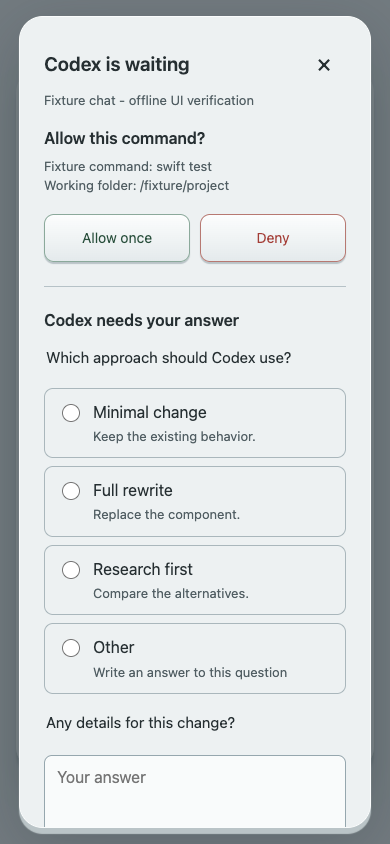
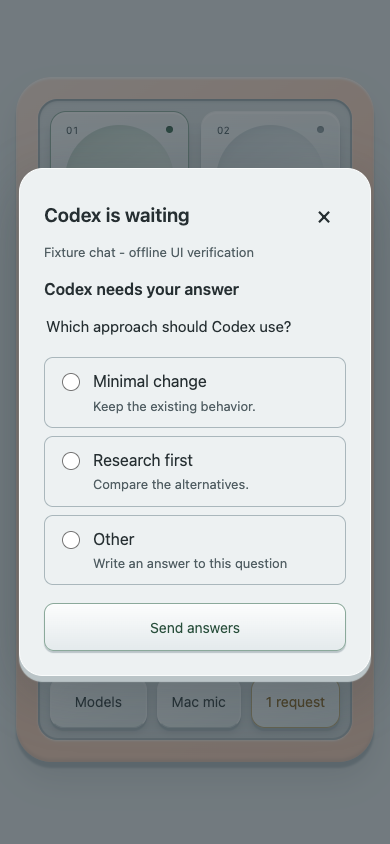
Add a wider Micro-style frame with live chat status colors

diff --git a/Sources/CodexUsageAutomation/Resources/apply-preset.js b/Sources/CodexUsageAutomation/Resources/apply-preset.js
@@ -156,16 +156,18 @@ function codexDeckRuntime() {
     return active;
   };
   const walk = (start, visit) => {
-    const stack = [start], seen = new Set();
+    const stack = [{ node: start, conversationID: null }], seen = new Set();
     while (stack.length) {
-      const node = stack.pop();
+      const entry = stack.pop(), node = entry.node;
       if (!node || seen.has(node)) continue;
       if (seen.size >= 100000) throw new Error('The Codex control search reached its limit.');
       seen.add(node);
-      visit(node);
+      const conversationID = Object.hasOwn(node.memoizedProps ?? {}, 'conversationId')
+        ? node.memoizedProps.conversationId : entry.conversationID;
+      visit(node, conversationID);
       // A subtree walk must not visit its root's siblings.
       for (let child = node.child; child; child = child.sibling) {
-        stack.push(child);
+        stack.push({ node: child, conversationID });
         if (stack.length > 100000) throw new Error('The Codex control search reached its limit.');
       }
     }
@@ -211,9 +213,17 @@ function codexDeckRuntime() {
     return { state: { available, recording, owned }, voice, nativeControl };
   };
   const pending = () => {
-    const owners = [];
-    walk(runtime.currentRoot(), node => {
+    const owners = [], statuses = new Set();
+    walk(runtime.currentRoot(), (node, conversationID) => {
       const props = node.memoizedProps;
+      // Codex's task row passes statusState to its indicator. Read only the
+      // committed, identity-scoped status props, never messages or hook state.
+      const status = props?.statusState;
+      if (conversationID === targetID && typeof status?.unread === 'boolean') {
+        if (status.type === 'error') statuses.add('error');
+        else if (status.type === 'loading') statuses.add('thinking');
+        else if (status.type === 'idle') statuses.add(status.unread ? 'complete' : 'idle');
+      }
       if (props?.conversationId !== targetID || !props.pendingRequest?.type) return;
       let mounted = false;
       walk(node, child => { if (visible(child)) mounted = true; });
@@ -323,7 +333,12 @@ function codexDeckRuntime() {
       }
       entries.set(id, entry);
     }
-    return { entries, ids, unavailable };
+    // A mounted question/approval takes precedence over the underlying turn
+    // still running. Unsupported requests also require attention on the Mac.
+    const responding = composer.owners.some(owner => owner.memoizedProps?.isResponseInProgress === true);
+    const activity = owners.length ? 'requires-input' : statuses.size === 1 ? [...statuses][0]
+      : statuses.size === 0 && responding ? 'thinking' : 'unknown';
+    return { entries, ids, unavailable, activity };
   };
   return { composer, targetID, ensureActive, dictation, pending };
 }
@@ -345,7 +360,7 @@ function readCodexDeck() {
       efforts: option.model.supportedReasoningEfforts.map(level => level.reasoningEffort).filter(level => typeof level === 'string')
     }));
   const requests = pending();
-  return { targetID, title: title ?? 'Current Codex chat', model, effort, models,
+  return { targetID, title: title ?? 'Current Codex chat', model, effort, models, activity: requests.activity,
     dictation: dictation(composer).state, pending: [...requests.entries.values()].map(entry => entry.data),
     ...(requests.unavailable ? { pendingUnavailable: requests.unavailable } : {}) };
 }

diff --git a/Sources/CodexUsageWeb/Resources/deck.css b/Sources/CodexUsageWeb/Resources/deck.css
@@ -22,7 +22,11 @@ h1, h2, p { margin: 0; }
   padding: max(16px, env(safe-area-inset-top)) max(16px, env(safe-area-inset-right)) max(22px, env(safe-area-inset-bottom)) max(16px, env(safe-area-inset-left));
 }
 .deck-surface {
-  --board-pad: clamp(14px, 2.8vmin, 28px);
+  --frame-width: clamp(22px, 4vmin, 38px);
+  --inner-pad: clamp(12px, 2vmin, 20px);
+  --board-pad: calc(var(--frame-width) + var(--inner-pad));
+  --frame-color: #bac3c6;
+  --board-radius: clamp(36px, 6vmin, 56px);
   --key-gap: clamp(12px, 2.2vmin, 22px);
   --dock-gap: clamp(20px, 3vmin, 28px);
   --dock-height: 52px;
@@ -30,10 +34,22 @@ h1, h2, p { margin: 0; }
   --controls-width: 132px;
   width: min(100cqw, calc((100cqh - var(--board-pad) * 2 - var(--dock-height) - var(--effort-height) - var(--dock-gap) * 2 - var(--key-gap) * 2) * 2 / 3 + var(--key-gap) + var(--board-pad) * 2));
   display: grid; grid-template-areas: "keys" "effort" "controls"; grid-template-columns: minmax(0, 1fr); gap: var(--dock-gap); padding: var(--board-pad); container-type: inline-size;
-  border-radius: clamp(26px, 5vmin, 44px);
-  background: linear-gradient(145deg, #e0e5e6, #cbd2d4);
-  box-shadow: inset 0 0 0 2px #f7f9f9, inset 0 0 0 7px #e9edee, inset 0 0 0 9px #bac3c6, 0 8px 2px #bcc4c7, 0 18px 30px #49575e25;
+  position: relative; isolation: isolate;
+  border-radius: var(--board-radius);
+  background: linear-gradient(145deg, #ffffff70, #ffffff00 40%, #00000009), var(--frame-color);
+  box-shadow: inset 0 2px 2px #ffffffd9, inset 0 -3px 3px #52636b25, 0 6px 2px #aab5ba, 0 18px 30px #49575e25;
 }
+.deck-surface::before {
+  content: ""; position: absolute; inset: var(--frame-width); z-index: -1; pointer-events: none;
+  border-radius: calc(var(--board-radius) - var(--frame-width) + 6px);
+  background: linear-gradient(145deg, #e0e5e6, #cbd2d4);
+  box-shadow: 0 1px 2px #ffffffb3, inset 0 2px 4px #68798066, inset 0 0 0 2px #aeb9bd;
+}
+.deck-surface[data-activity="idle"] { --frame-color: #f7f9f9; }
+.deck-surface[data-activity="complete"] { --frame-color: #9bf095; }
+.deck-surface[data-activity="thinking"] { --frame-color: #9bd2f8; }
+.deck-surface[data-activity="requires-input"] { --frame-color: #ffd1b8; }
+.deck-surface[data-activity="error"] { --frame-color: #ff7075; }
 .remote[data-pairing="true"] .deck-surface { display: none; }
 .key-surface { grid-area: keys; min-width: 0; position: relative; }
 .key-surface[data-view="models"] .deck-grid { visibility: hidden; }
@@ -155,7 +171,7 @@ input, textarea { caret-color: var(--green); }
 }
 @media (max-height: 440px) and (orientation: landscape) {
   .remote { padding-top: 12px; padding-bottom: 18px; }
-  .deck-surface { --board-pad: 12px; --key-gap: 10px; --dock-gap: 14px; --effort-height: 66px; --controls-width: 96px; }
+  .deck-surface { --frame-width: 18px; --inner-pad: 10px; --key-gap: 10px; --dock-gap: 14px; --effort-height: 66px; --controls-width: 96px; }
   .micro-dock { gap: 8px; }
   .dock-button { padding: 6px 8px; gap: 5px; font-size: .8125rem; }
   #effort-range { height: 44px; }

diff --git a/Sources/CodexUsageWeb/Resources/deck.js b/Sources/CodexUsageWeb/Resources/deck.js
@@ -3,6 +3,14 @@
 
   const POLL_INTERVAL = 5000;
   const effortLabels = { none: "None", minimal: "Minimal", low: "Low", medium: "Medium", high: "High", xhigh: "Extra High", max: "Max", ultra: "Ultra" };
+  const activityLabels = { idle: "Idle", thinking: "Thinking", complete: "Complete — unread update", "requires-input": "Requires input", error: "Chat error", unknown: "Chat status unavailable", off: "No connected chat" };
+
+  function deckActivity(state) {
+    const snapshot = state.snapshot;
+    if (state.phase !== "ready" || !snapshot?.connected || !snapshot.target?.id) return "off";
+    if (snapshot.pending?.length || snapshot.pendingUnavailable) return "requires-input";
+    return ["idle", "thinking", "complete", "requires-input", "error"].includes(snapshot.activity) ? snapshot.activity : "unknown";
+  }
 
   function modelLabel(model) {
     return String(model || "Model").replace(/^gpt-/i, "GPT-").replace(/-(astra|sol|luna|terra)$/i, (_, name) => " " + name[0].toUpperCase() + name.slice(1));
@@ -521,6 +529,10 @@
       const selection = controller.displaySelection();
       const pending = !!state.pendingSelection;
       document.querySelector(".deck-surface").dataset.applying = String(busy);
+      const activity = deckActivity(state), activityLabel = activityLabels[activity];
+      document.querySelector(".deck-surface").dataset.activity = activity;
+      if (byID("activity-announcement").textContent !== activityLabel) byID("activity-announcement").textContent = activityLabel;
+      byID("chat-activity").textContent = activityLabel;
       const pairing = phase === "pairing";
       byID("pairing").hidden = !pairing;
       document.querySelector(".remote").dataset.pairing = String(pairing);
@@ -717,7 +729,7 @@
   }
 
   if (typeof module !== "undefined" && module.exports) {
-    module.exports = { modelEffort, validControl, pressFeedback, DeckController, consumePairingToken, modelLabel, isPresetSelected, usagePercent, POLL_INTERVAL };
+    module.exports = { deckActivity, modelEffort, validControl, pressFeedback, DeckController, consumePairingToken, modelLabel, isPresetSelected, usagePercent, POLL_INTERVAL };
   } else {
     const token = consumePairingToken(window.location, window.history);
     let render = () => {};

diff --git a/Sources/CodexUsageWeb/Resources/index.html b/Sources/CodexUsageWeb/Resources/index.html
@@ -15,7 +15,7 @@
 </head>
 <body>
   <main class="remote" aria-label="Codex model deck">
-    <div class="deck-surface">
+    <div class="deck-surface" data-activity="off" aria-describedby="activity-announcement">
     <div id="key-surface" class="key-surface" data-view="presets">
     <div id="presets" class="deck-grid" aria-label="Model presets and usage" aria-busy="true">
       <button id="usage-key" type="button" class="deck-key usage-key" aria-label="Usage unavailable. Open deck controls" aria-haspopup="dialog">
@@ -55,6 +55,7 @@
     </section>
     <div id="notice" class="notice" hidden><p id="notice-text"></p><button id="dismiss-notice" type="button" aria-label="Dismiss notification">×</button></div>
     <p id="feedback" class="sr-only" role="status" aria-live="polite" aria-atomic="true"></p>
+    <p id="activity-announcement" class="sr-only" role="status" aria-live="polite" aria-atomic="true">No connected chat</p>
     <noscript><p class="notice">Enable JavaScript to use the deck.</p></noscript>
   </main>
   <dialog id="requests" aria-labelledby="requests-title">
@@ -67,6 +68,7 @@
     <div class="dialog-heading"><h2 id="controls-title">Deck controls</h2><button id="close-controls" type="button" aria-label="Close controls">×</button></div>
     <p id="connection-label" class="secondary">Connecting</p>
     <p class="field-label">Active chat</p><p id="target-title">Waiting for Codex…</p>
+    <p id="chat-activity" class="secondary">No connected chat</p>
     <p id="usage-details" class="secondary"></p>
     <p id="pending-unavailable" class="secondary" hidden></p>
     <div class="control-grid">

diff --git a/Tests/CodexUsageTests/DirectSwitchTests.swift b/Tests/CodexUsageTests/DirectSwitchTests.swift
@@ -112,3 +112,15 @@ func directWebSocketRejectsFailureInsteadOfReportingApplied(_ mode: String) asyn
         await #expect(throws: DirectSwitchError.self) { try await DirectModelSwitcher(port: port).control(input) }
     }
 }
+
+@Test func deckActivitySurvivesTypedBridgeEncodingAndOlderPayloads() throws {
+    let base: [String: Any] = ["targetID": "chat-1", "title": "Fixture chat", "model": "gpt-6-astra", "effort": "high"]
+    #expect(try JSONDecoder().decode(DeckState.self, from: JSONSerialization.data(withJSONObject: base)).activity == nil)
+    for activity in ["idle", "thinking", "complete", "requires-input", "error", "unknown"] {
+        var payload = base
+        payload["activity"] = activity
+        let state = try JSONDecoder().decode(DeckState.self, from: JSONSerialization.data(withJSONObject: payload))
+        let encoded = try #require(JSONSerialization.jsonObject(with: JSONEncoder().encode(state)) as? [String: Any])
+        #expect(encoded["activity"] as? String == activity)
+    }
+}

diff --git a/Sources/CodexUsage/main.swift b/Sources/CodexUsage/main.swift
@@ -343,7 +343,7 @@ final class AppDelegate: NSObject, NSApplicationDelegate {
             payload["target"] = ["id": state.targetID, "title": state.title]
             payload["selection"] = ["model": state.model, "effort": state.effort]
             let extended = try JSONSerialization.jsonObject(with: JSONEncoder().encode(state)) as? [String: Any]
-            for key in ["models", "dictation", "pending", "pendingUnavailable"] {
+            for key in ["models", "activity", "dictation", "pending", "pendingUnavailable"] {
                 payload[key] = extended?[key]
             }
         } catch { payload["message"] = error.localizedDescription }

diff --git a/Tests/WebDeckFixture/WebDeckFixture.swift b/Tests/WebDeckFixture/WebDeckFixture.swift
@@ -41,6 +41,7 @@ struct WebDeckFixture {
                 "models": models,
                 "dictation": ["available": true, "recording": recording, "owned": recording],
                 "pending": pending,
+                "activity": pending.isEmpty ? "idle" : "requires-input",
                 "presets": presets.map {
                     ["slot": $0.slot, "model": $0.model, "effort": $0.effort.rawValue, "title": $0.title] as [String: Any]
                 },

diff --git a/Sources/CodexUsageAutomation/DirectModelSwitcher.swift b/Sources/CodexUsageAutomation/DirectModelSwitcher.swift
@@ -14,6 +14,7 @@ public struct DeckState: Codable, Sendable {
     public let model: String
     public let effort: String
     public let models: [DeckModel]?
+    public let activity: String?
     public let dictation: DeckDictation?
     public let pending: [DeckPendingRequest]?
     public let pendingUnavailable: String?

diff --git a/README.md b/README.md
@@ -33,7 +33,7 @@ User-provided screenshot of a weekly-only account: the green ring shows 94% rema
 
 <img src="docs/web-deck-questions.png" alt="A pending question with selectable answers and a request-specific text field" width="500" />
 
-Version 0.9.0, rendered with synthetic offline fixture data. These landscape, portrait, model catalog, slider, and question previews illustrate the interface; they are not photos of a phone controlling live Codex. The recording state, requests, and quota in these examples are simulated.
+Version 0.9.2, rendered with synthetic offline fixture data. These landscape, portrait, model catalog, slider, and question previews illustrate the interface; they are not photos of a phone controlling live Codex. The recording state, requests, and quota in these examples are simulated.
 
 ---
 
@@ -131,6 +131,18 @@ The 0.9.1 tone has a soft attack and a rounded 180 ms tail. Rapid button presses
 The sixth tile shows **remaining quota as a percentage only** inside its ring, with no “remaining” label underneath. It prioritizes the weekly window (otherwise the first available window). Tap **Usage** for full usage details and reset information. Missing or expired quota, or a lost connection, displays **—**. Connection and error notices appear only when needed.
 
 A pairing link expires after **5 minutes** and can be used **once**. Choose **New Pairing Link** for another device or an expired link; existing paired devices stay connected. Each paired browser session lasts up to **8 hours**. Keep pairing links private.
+
+The wider outer frame follows the current chat’s status, using the [official Micro color meanings](https://learn.chatgpt.com/docs/features/codex-micro):
+
+| Frame | Chat state |
+| --- | --- |
+| White | Idle |
+| Light green | Complete with an unread update |
+| Light blue | Thinking / working |
+| Peach / amber | Requires input or approval |
+| Red | Chat error |
+
+Only the frame changes color; the white keys and gray inner board stay legible. **Usage** also names the state. Disconnected or unrecognized status is gray. Colors update with the existing five-second poll while the page is visible; a preset change does not trigger the completion color. Green clears when Codex marks the update read. See [frame previews and limits](docs/codex-micro.md#status-frame).
 
 **Disconnect All Devices** revokes every session and creates a fresh link. **Stop Web Deck** closes the server and revokes all sessions. Closing only its settings window keeps it running. After a companion restart, start Web Deck and pair again; neither the server state nor sessions are saved. A phone can also use **Usage → Disconnect** to end its own session.
 
@@ -316,6 +328,8 @@ Version 0.7.0 added six tactile keys and landscape/fullscreen support. Version *
 Version **0.8.2** replaces the rotary dial with a horizontal volume-style effort slider. Drag/release, touch, keyboard input, and five viewport sizes were checked in an offline browser.
 Version **0.9.0** renames the app to Codex Deck and adds an inline **Models / Presets** view switch. The model keys show names only; selecting one keeps a supported effort. Browser fixtures verify view switching, model selection, slider behavior, and disconnected states.
 Version **0.9.1** adds a softer original key tone, immediate pending selection, continuous slider movement, and a single latest-value effort queue. Successful model writes use the host-verified acknowledgement immediately and resume normal polling, eliminating the extra old-state repaint and read. Slow-response, failure, target-change, and keyboard cases were checked with isolated fixtures.
+
+Version **0.9.2** widens the frame and maps its five colors to identity-scoped native chat status, with a neutral fallback when status is unavailable. The bridge, typed payload, and responsive browser states were checked with isolated fixtures; live Codex status and physical-phone behavior were not agent-verified.
 Version **0.8.3** puts the effort slider directly on the deck. Selecting a preset synchronizes the bar; moving it preserves the active model and changes only its effort. The Astra Ultra → High and Sol Extra High → High flows were verified with offline fixtures.
 The 0.8.0 interface was checked in a real browser with isolated fixture data, and the integration was reviewed against static Codex source. Live Codex actions, native microphone capture, and physical-phone sound/vibration were not validated for this release. Fixture checks establish UI and contract behavior, not guaranteed compatibility with a running Codex build.
 This does not establish Ultra availability for every account or coverage of every window/composer state.

diff --git a/DESIGN.md b/DESIGN.md
@@ -5,6 +5,12 @@ colors:
   page: "#e3e7e8"
   board-light: "#e0e5e6"
   board-shade: "#cbd2d4"
+  frame-idle: "#f7f9f9"
+  frame-complete: "#9bf095"
+  frame-thinking: "#9bd2f8"
+  frame-input: "#ffd1b8"
+  frame-error: "#ff7075"
+  frame-unavailable: "#bac3c6"
   key-light: "#f9fbfb"
   key-shade: "#e8edef"
   dialog: "#edf1f2"
@@ -53,11 +59,11 @@ rounded:
   dock: "14px"
   dialog: "24px"
   key: "clamp(16px, 3.5vmin, 30px)"
-  board: "clamp(26px, 5vmin, 44px)"
+  board: "clamp(36px, 6vmin, 56px)"
 spacing:
   field-padding: "12px"
   dialog-padding: "24px"
-  board-padding: "clamp(14px, 2.8vmin, 28px)"
+  board-padding: "calc(var(--frame-width) + var(--inner-pad))"
   key-gap: "clamp(12px, 2.2vmin, 22px)"
   dock-gap: "clamp(20px, 3vmin, 28px)"
 components:
@@ -94,7 +100,7 @@ components:
 
 The user's white Codex Micro photo sets the material direction: pale square keycaps, shallow dished faces, softly beveled edges, and visible key thickness on a cool gray board. Charcoal labels and icons stay clear against the light surfaces. Depth communicates pressable controls without adding branding or a persistent header.
 
-Scope: `Sources/CodexUsageWeb/Resources/`. The native AppKit menu retains its platform styling. These tokens describe the implemented 0.9.0 web surface; its stylesheet remains the implementation source.
+Scope: `Sources/CodexUsageWeb/Resources/`. The native AppKit menu retains its platform styling. These tokens describe the implemented 0.9.2 web surface; its stylesheet remains the implementation source.
 
 **Key Characteristics:**
 - Square white keys with recessed circular faces.
@@ -114,7 +120,7 @@ Use the native system UI stack, with rem sizes for dialogs, forms, and dock cont
 
 Center the board within the viewport's safe-area padding. Six keys form a 3 × 2 grid in landscape and a 2 × 3 grid in portrait. The board calculation reserves its padding, gaps, effort slider and controls before choosing the largest square key size that fits. In landscape the controls sit in a column to the right of the keys and the slider spans both columns below. Portrait places the slider and then the dock below the keys.
 
-The portrait dock is 52px high (44px below 650px viewport height). The effort row reserves 84px. Landscape at 440px height or less uses 12px board padding, 10px key gaps, a 14px row gap, a 96px control column and a 66px effort row with endpoint labels hidden. The toggle reads Models or Presets at every width; below a 350px board container hide its icon, and below 290px hide the Requests and microphone icons. Keep accessible names intact. Dialogs may scroll internally on short screens. Active-deck notices sit at the top so the Mac mic control stays available.
+The portrait dock is 52px high (44px below 650px viewport height). The effort row reserves 84px. Landscape at 440px height or less uses an 18px outer frame plus 10px inner padding, 10px key gaps, a 14px row gap, a 96px control column and a 66px effort row with endpoint labels hidden. The toggle reads Models or Presets at every width; below a 350px board container hide its icon, and below 290px hide the Requests and microphone icons. Keep accessible names intact. Dialogs may scroll internally on short screens. Active-deck notices sit at the top so the Mac mic control stays available.
 
 ## Elevation & Depth
 
@@ -144,3 +150,5 @@ In 0.9.1, pending selection uses the requested key face immediately with an ambe
 - **Don't** treat a lost connection as confirmation that the Mac microphone stopped.
 
 The model catalog occupies the preset grid’s existing footprint with two columns in portrait and four in landscape. Its white keys contain only model names, with confirmed selection indicated by a sage face and aria-pressed. Larger catalogs scroll within the grid. The original grid is inert while hidden. Models / Presets changes the view instantly without animation or a model write; Escape returns to Presets.
+
+In 0.9.2 the outer frame is `clamp(22px, 4vmin, 38px)` wide, with a separate `clamp(12px, 2vmin, 20px)` inner pad. Short landscape uses 18px + 10px. The frame carries the native chat status: white idle, pale green unread completion, pale blue thinking, peach input required, and red chat error. Unknown/offline is gray. The inset panel and white keys retain their materials. Change color without animation or extra polling, and expose the same status in Usage and a screen-reader live region.

diff --git a/docs/codex-micro.md b/docs/codex-micro.md
@@ -29,6 +29,24 @@ These controls change subsequent turns of the current chat. They do not restart 
 
 The bridge requires one unambiguous saved chat with its composer visible. If the target or catalog changes while a control is being used, refresh and check the target in **Usage** before retrying.
 
+## Status frame
+
+Version 0.9.2 adds a broad, beveled outer frame around the gray inner board. It follows the [official Micro status colors](https://learn.chatgpt.com/docs/features/codex-micro), independent of model choice and reasoning effort.
+
+| Color | Meaning | Offline fixture preview |
+| --- | --- | --- |
+| White | Idle | <img src="web-deck-idle.png" alt="Idle white frame" width="260" /> |
+| Light green | Complete, with an unread update | <img src="web-deck-complete.png" alt="Unread completion green frame" width="260" /> |
+| Light blue | Thinking / working | <img src="web-deck-thinking.png" alt="Working blue frame" width="260" /> |
+| Peach / amber | Requires an answer or approval | <img src="web-deck-requires-input.png" alt="Input required amber frame" width="260" /> |
+| Red | Chat error | <img src="web-deck-error.png" alt="Chat error red frame" width="260" /> |
+
+The bridge reads the current saved chat’s committed `statusState.type` and `statusState.unread` props, scoped by its conversation ID. Mounted pending requests take precedence, including requests that must be answered on the Mac. A native composer response-in-progress flag can supply Thinking if the task-row status is absent. No transcript, arbitrary hook state, or another chat’s status is used. Missing, changed, or conflicting status shapes produce a neutral gray frame, rather than guessing Idle. Because this relies on internal Codex props, future versions or layouts that omit status can show gray while model controls still work.
+
+The existing five-second visible-page poll updates the frame; no extra timer, status query, perpetual pulse, or continuous animation is added. Reading a completion in Codex clears its unread green state. Connection loss, pairing expiry, and unavailable chats clear stale colors. Model-change acknowledgement and recording state do not impersonate chat completion. **Usage** shows the state in text, and a screen-reader live region announces changes without adding a main-deck header.
+
+These five previews and automated checks use synthetic offline state. They verify the renderer and adapter contracts, not live desktop status or physical-phone integration.
+
 ## Dictation and native permissions
 
 **Mac mic** controls Codex’s existing dictation, not the phone microphone and not a realtime voice call. Codex must expose enabled dictation controls, and macOS must allow Codex microphone access. Complete any system prompt on the Mac. The browser cannot grant macOS permissions; it does not call a phone recording API or relay audio to the companion.
